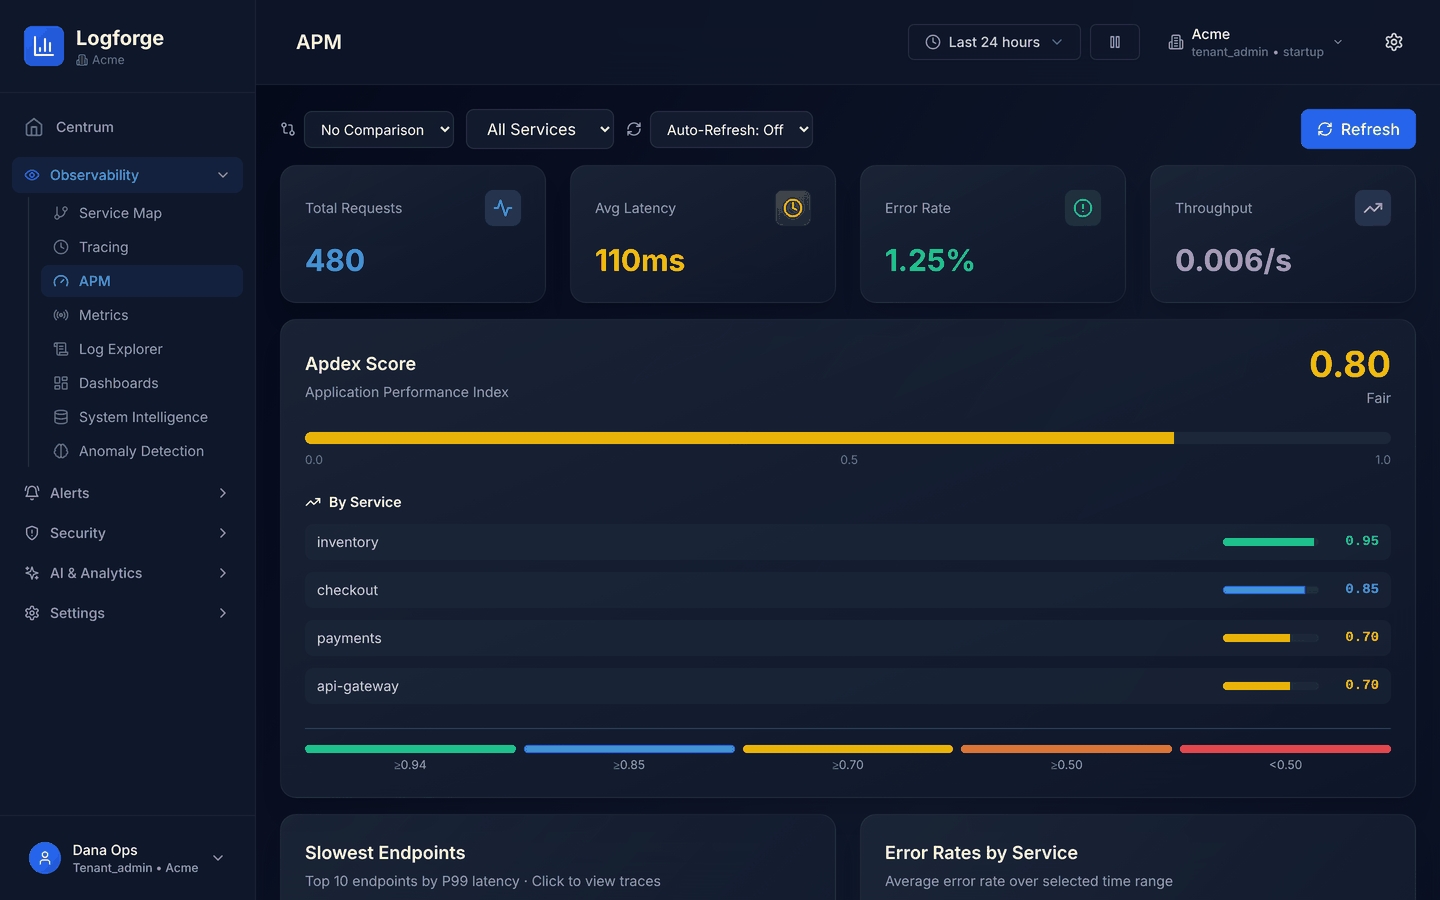
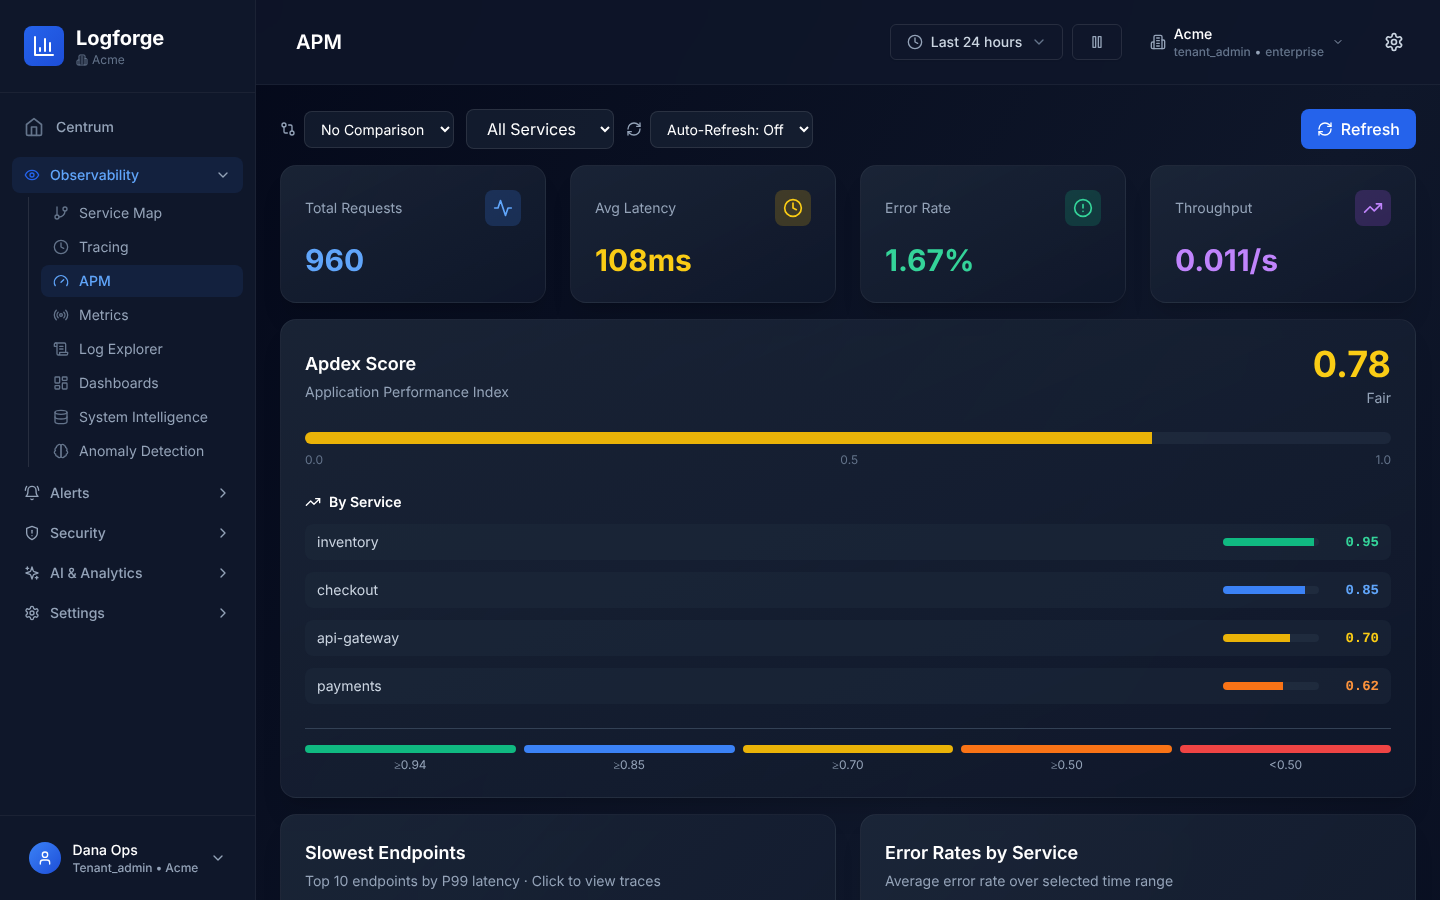
README: current screenshots, Phase 1-2 features, cases guide
The README screenshots were from before Phase 0. All seven are recaptured
from the current build against a local stack, and two are new: the Cases
list and a case being worked. The data is real: the demo tenant is seeded by
the new scripts/seed_demo_telemetry.py (an hour of logs, traces and metrics,
plus three attacks the shipped rules detect, one case worked by an
analyst), and scripts/capture_screenshots.js takes the pictures, failing
on page errors, so later phases can refresh them the same way.

The feature table gains correlation rules, backtesting, tuning,
detection-as-code and cases; the rule count and the stale "packages/rules
is used by tests only" note are corrected. docs/cases.md documents
grouping, the workflow, SLA targets, audit export and the API.

Claude-Session: https://claude.ai/code/session_017j6Y7u5fbgghW6rbktQFja

diff --git a/scripts/capture_screenshots.js b/scripts/capture_screenshots.js
@@ -1,0 +1,70 @@
+#!/usr/bin/env node
+/**
+ * Capture the README screenshots (docs/images/*.png) from a running UI.
+ *
+ *   python scripts/bootstrap_demo.py
+ *   python scripts/seed_demo_telemetry.py
+ *   node scripts/capture_screenshots.js            # UI at http://localhost:3001
+ *   UI_URL=http://localhost:3000 node scripts/capture_screenshots.js
+ *
+ * Needs Playwright (`npm ci` in apps/ui). Logs in as the demo user, opens each
+ * page, waits for its data, and writes 1440x900 PNGs. A page that shows an
+ * error or no data is reported, so a broken page never becomes a screenshot.
+ */
+const path = require('path')
+const { chromium } = require(require.resolve('playwright', { paths: [path.join(__dirname, '..', 'apps', 'ui')] }))
+
+const UI = process.env.UI_URL || 'http://localhost:3001'
+const OUT = path.join(__dirname, '..', 'docs', 'images')
+const EMAIL = process.env.E2E_EMAIL || 'dana@acme.example'
+const PASSWORD = process.env.E2E_PASSWORD || 'Acme-Demo-Pass-123!'
+
+// name -> page and an element that proves its data loaded
+const PAGES = [
+  ['centrum', '/centrum', 'main'],
+  ['log-explorer', '/observability/logs', 'table, [data-testid="logs-refresh"]'],
+  ['tracing', '/observability/traces', 'main'],
+  ['apm', '/observability/apm', 'main'],
+  ['service-map', '/observability/service-map', 'main'],
+  ['detection-rules', '/security/rules', 'main'],
+  ['cases', '/security/cases', '[data-testid="case-row"]'],
+]
+
+async function main() {
+  const browser = await chromium.launch({ executablePath: process.env.CHROMIUM_PATH || undefined })
+  const page = await browser.newPage({ viewport: { width: 1440, height: 900 } })
+  const errors = []
+  page.on('pageerror', e => errors.push(e.message))
+
+  await page.goto(`${UI}/login`, { waitUntil: 'load' })
+  await page.screenshot({ path: path.join(OUT, 'login.png') })
+  await page.fill('[data-testid="email-input"]', EMAIL)
+  await page.fill('[data-testid="password-input"]', PASSWORD)
+  await page.locator('[data-testid="login-button"]:not([disabled])').click()
+  await page.waitForURL(url => !url.pathname.startsWith('/login'), { timeout: 30000 })
+
+  for (const [name, route, ready] of PAGES) {
+    await page.goto(`${UI}${route}`, { waitUntil: 'load' })
+    await page.locator(ready).first().waitFor({ timeout: 20000 })
+    await page.waitForTimeout(3000) // data loads, charts animate in (pages poll, so no networkidle)
+    await page.screenshot({ path: path.join(OUT, `${name}.png`) })
+    console.log(`${name}.png`)
+  }
+
+  // The case an analyst is working (seeded by seed_demo_telemetry.py).
+  await page.goto(`${UI}/security/cases`, { waitUntil: 'load' })
+  const worked = page.getByTestId('case-row').filter({ hasText: 'investigating' }).first()
+  await worked.getByRole('link').click()
+  await page.getByTestId('timeline-item').first().waitFor()
+  await page.waitForTimeout(2000)
+  await page.screenshot({ path: path.join(OUT, 'case-detail.png') })
+  console.log('case-detail.png')
+
+  await browser.close()
+  if (errors.length) {
+    console.error('page errors:', errors)
+    process.exit(1)
+  }
+}
+
+main().catch(e => { console.error(e); process.exit(1) })

diff --git a/scripts/seed_demo_telemetry.py b/scripts/seed_demo_telemetry.py
@@ -1,0 +1,161 @@
+#!/usr/bin/env python3
+"""
+Seed the demo tenant with an hour of realistic telemetry and a few attacks,
+for screenshots and demos (see scripts/capture_screenshots.js).
+
+* about 1,800 logs across 5 services, 120 traces (480 spans), 240 metric
+  points;
+* three small intrusions that the shipped rules detect (brute force then a
+  successful login, a password spray, discovery then an LSASS dump), so
+  case grouping opens cases on its own;
+* one of those cases worked by an analyst: assigned, a note, pinned
+  evidence, moved to investigating.
+
+Run after scripts/bootstrap_demo.py, against a running stack:
+
+    python scripts/seed_demo_telemetry.py
+"""
+
+from __future__ import annotations
+
+import random
+import sys
+import time
+import uuid
+from datetime import datetime, timedelta, timezone
+from pathlib import Path
+
+sys.path.insert(0, str(Path(__file__).resolve().parent))
+import bootstrap_demo as demo  # noqa: E402
+
+random.seed(7)
+NOW = datetime.now(timezone.utc)
+ANALYST = "dana@acme.example"
+
+SERVICES = {
+    "checkout": ["order placed", "payment authorized", "payment declined", "cart validated"],
+    "auth": ["user login succeeded", "token refreshed", "session expired", "password changed"],
+    "inventory": ["stock reserved", "stock level low", "warehouse sync complete"],
+    "api-gateway": ["GET /v1/orders 200", "POST /v1/cart 201", "GET /v1/products 200", "upstream timeout"],
+    "payments": ["charge created", "refund issued", "card network error"],
+}
+LEVELS = ["info"] * 14 + ["warn"] * 3 + ["error"] * 2 + ["debug"]
+HOSTS = ["web-01", "web-02", "worker-01", "worker-02"]
+
+
+def call(method, path, body=None):
+    status, data = demo.call(method, path, body, token=TOKEN, tenant=TENANT)
+    if status >= 400:
+        raise SystemExit(f"{method} {path} failed: {status} {data}")
+    return data
+
+
+def at(seconds_ago: float) -> str:
+    return (NOW - timedelta(seconds=seconds_ago)).isoformat()
+
+
+def seed_logs():
+    logs = []
+    for _ in range(1800):
+        service = random.choice(list(SERVICES))
+        message = random.choice(SERVICES[service])
+        level = "error" if any(w in message for w in ("declined", "error", "timeout")) else random.choice(LEVELS)
+        logs.append({"service": service, "level": level, "msg": message, "host": random.choice(HOSTS),
+                     "ts": at(random.randint(0, 3500)), "trace_id": uuid.uuid4().hex,
+                     "src_ip": f"10.0.{random.randint(0, 3)}.{random.randint(2, 250)}",
+                     "attrs": {"region": random.choice(["us-east-1", "eu-west-1"]),
+                               "latency_ms": random.randint(5, 900)}})
+    for i in range(0, len(logs), 200):
+        call("POST", "/v1/ingest/logs/batch", {"logs": logs[i:i + 200]})
+    print(f"logs: {len(logs)}")
+
+
+def seed_traces():
+    spans = []
+    chain = [("api-gateway", "HTTP POST /checkout"), ("checkout", "place_order"),
+             ("inventory", "reserve_stock"), ("payments", "charge_card")]
+    for _ in range(120):
+        trace_id, parent = uuid.uuid4().hex, None
+        start = NOW - timedelta(seconds=random.randint(0, 3500))
+        for depth, (service, operation) in enumerate(chain):
+            span_id = uuid.uuid4().hex[:16]
+            failed = service == "payments" and random.random() < 0.08
+            spans.append({"trace_id": trace_id, "span_id": span_id, "parent_span_id": parent,
+                          "operation_name": operation, "service_name": service,
+                          "start_time": (start + timedelta(milliseconds=depth * 5)).isoformat(),
+                          "duration_ms": random.randint(20, 400) // (depth + 1),
+                          "status": "error" if failed else "ok", "kind": "server",
+                          "attributes": {"http.method": "POST"} if depth == 0 else {}})
+            parent = span_id
+    for i in range(0, len(spans), 200):
+        call("POST", "/v1/observability/traces/ingest", {"spans": spans[i:i + 200]})
+    print(f"spans: {len(spans)}")
+
+
+def seed_metrics():
+    metrics = []
+    for minute in range(60):
+        ts = (NOW - timedelta(minutes=60 - minute)).isoformat()
+        for name, base in [("cpu.utilization", 45), ("memory.used_pct", 62),
+                           ("http.requests_per_sec", 320), ("http.p95_latency_ms", 180)]:
+            metrics.append({"metric_name": name, "metric_type": "gauge", "timestamp": ts,
+                            "value": round(base * random.uniform(0.75, 1.3), 2)})
+    call("POST", "/v1/observability/metrics/ingest", {"metrics": metrics})
+    print(f"metrics: {len(metrics)}")
+
+
+def seed_attacks() -> str:
+    """Three intrusions the shipped rules detect; returns the brute-force source."""
+    brute = f"203.0.113.{random.randint(10, 250)}"
+    spray = f"45.155.205.{random.randint(10, 250)}"
+
+    def auth(ip, user, result, seconds_ago):
+        return {"ts": at(seconds_ago), "service": "sshd", "host": "bastion-01", "msg": f"authentication {result}",
+                "src_ip": ip, "attrs": {"event_type": "authentication", "result": result, "user": user}}
+
+    batches = [
+        [auth(brute, "deploy", "failed", 900 - i * 5) for i in range(12)] + [auth(brute, "deploy", "success", 780)],
+        [auth(spray, user, "failed", 600 - i * 3) for i, user in enumerate(
+            ["alice", "bob", "carol", "dave", "erin", "frank"])],
+        [{"ts": at(400), "service": "sysmon", "host": "WS-044", "msg": "Process created",
+          "attrs": {"user": "carol", "process_name": r"C:\Windows\System32\whoami.exe", "command_line": "whoami /priv"}},
+         {"ts": at(300), "service": "sysmon", "host": "WS-044", "msg": "Process created",
+          "attrs": {"user": "carol", "process_name": r"C:\Users\Public\procdump64.exe",
+                    "command_line": r"procdump64.exe -accepteula -ma lsass.exe C:\Users\Public\l.dmp"}}],
+    ]
+    for batch in batches:
+        call("POST", "/v1/ingest/logs/batch", {"logs": batch})
+        time.sleep(2)
+    print(f"attacks: brute force from {brute}, spray from {spray}, LSASS dump on WS-044")
+    return brute
+
+
+def work_a_case(source_ip: str):
+    """An analyst picks up the brute-force case."""
+    for _ in range(45):  # detection and grouping run asynchronously
+        found = call("GET", f"/v1/security/cases?q={source_ip}")
+        if found.get("total"):
+            break
+        time.sleep(2)
+    else:
+        print("no case opened for the brute force (is detection running?)")
+        return
+    case_id = found["cases"][0]["id"]
+    call("POST", f"/v1/security/cases/{case_id}/assign", {"assignee": ANALYST})
+    call("POST", f"/v1/security/cases/{case_id}/status", {"status": "investigating"})
+    call("POST", f"/v1/security/cases/{case_id}/comments", {
+        "text": f"12 failed logins for `deploy` from {source_ip}, then a success. Checking what the session did; "
+                "@soc-lead the bastion key for deploy may need rotating."})
+    call("POST", f"/v1/security/cases/{case_id}/evidence", {
+        "kind": "search", "ref": source_ip, "title": "Everything from the source address"})
+    call("POST", f"/v1/security/cases/{case_id}/tags", {"add": ["bastion", "credential-access"]})
+    print(f"case worked: {case_id}")
+
+
+if __name__ == "__main__":
+    TOKEN = demo.admin_token()
+    TENANT = demo.tenant_id(TOKEN)
+    seed_logs()
+    seed_traces()
+    seed_metrics()
+    work_a_case(seed_attacks())

diff --git a/README.md b/README.md
@@ -18,13 +18,14 @@ rules (with MITRE ATT&CK tags) over incoming logs to produce security events.
 
 ## Screenshots
 
-<sub>Captured from a fresh `./deploy.sh` during the [QA run](./docs/QA_REPORT.md), with a tenant seeded with an hour of synthetic logs, traces and metrics.</sub>
+<sub>Captured from the current build on a local stack, with the demo tenant seeded by `scripts/seed_demo_telemetry.py` (an hour of synthetic logs, traces and metrics, plus three small attacks that the shipped rules detect). Regenerate with `node scripts/capture_screenshots.js`.</sub>
 
 | | |
 | --- | --- |
 | **Centrum** (tenant overview)<br>![Centrum](./docs/images/centrum.png) | **Log Explorer**<br>![Log Explorer](./docs/images/log-explorer.png) |
 | **Tracing**<br>![Tracing](./docs/images/tracing.png) | **APM** (latency, error rate, Apdex)<br>![APM](./docs/images/apm.png) |
-| **Service Map** (built from trace spans)<br>![Service Map](./docs/images/service-map.png) | **Sigma Detection Rules** (243 vendored SigmaHQ rules)<br>![Detection Rules](./docs/images/detection-rules.png) |
+| **Service Map** (built from trace spans)<br>![Service Map](./docs/images/service-map.png) | **Detection Rules** (vendored SigmaHQ plus Logforge rules, correlation rules included)<br>![Detection Rules](./docs/images/detection-rules.png) |
+| **Cases** (alerts grouped per source, host or user; SLA overview)<br>![Cases](./docs/images/cases.png) | **Case detail** (timeline, linked alerts, entities, evidence)<br>![Case detail](./docs/images/case-detail.png) |
 
 ## Contents
 
@@ -54,7 +55,12 @@ rules (with MITRE ATT&CK tags) over incoming logs to produce security events.
 | **LogforgeQL**, a pipe language (`timeout \| where service = "api" \| limit 50`) | ✅ Implemented | `apps/api/logql.py` |
 | Alerting: threshold, pattern, anomaly and saved-search rules | ✅ Implemented | `apps/api/alert_engine.py` |
 | Notifications: webhook, Slack, email, PagerDuty, Teams, Discord | ✅ Implemented (off by default) | `apps/api/services/notification_service.py` |
-| Sigma detection engine: ~270 fixture-verified rules (vendored SigmaHQ + Logforge's own `packages/rules/`) | ✅ Implemented | `apps/api/sigma_engine.py`, `apps/api/content/rules/`, `packages/rules/` |
+| Sigma detection engine: ~300 fixture-verified rules (vendored SigmaHQ + Logforge's own `packages/rules/`) | ✅ Implemented | `apps/api/sigma_engine.py`, `apps/api/content/rules/`, `packages/rules/` |
+| Correlation rules: thresholds, distinct counts, sums and sequences per entity, windowed across batches | ✅ Implemented | `apps/api/correlation.py`, `packages/rules/correlations/` |
+| Rule backtesting over stored logs (7 days / 100 M events in 20–27 s) | ✅ Implemented | `apps/api/backtest.py`, [benchmarks](./docs/benchmarks/backtest.md) |
+| Detection tuning: exclusions, throttles, suggestions from false positives | ✅ Implemented | `apps/api/detection_tuning.py` |
+| Detection-as-code: sync rules from git through the gate, YAML export | ✅ Implemented | `apps/api/detection_as_code.py`, [guide](./docs/detection-as-code.md) |
+| Cases: automatic grouping of alerts, timeline, evidence, merge/split, SLA metrics, audit export | ✅ Implemented | `apps/api/cases.py`, `apps/api/routers/cases_api.py`, [guide](./docs/cases.md) |
 | Anomaly detection and forecasting (z-score / EWMA) | ✅ Implemented | `apps/api/services/anomaly_detector.py`, `predictive_analytics_service.py` |
 | Multi-tenancy, roles, API keys, quotas, subscription tiers | ✅ Implemented | `tenant_api.py`, `authn_authz_middleware.py`, `config/pricing.yml` |
 | Server-sent event streams (metrics, alerts, security, …) | ✅ Implemented | `apps/api/routers/streaming_api.py` |
@@ -277,7 +283,7 @@ apps/
   ui/                 Tenant web UI (Next.js 14)
   admin-ui/           Platform admin UI (Next.js 14)
 packages/
-  rules/              Hand-written Sigma rules and content pack (currently used by tests only)
+  rules/              Logforge's own Sigma rules, correlation bundles and content pack (loaded at startup)
   shipper-recipes/    Vector and Fluent Bit configs
 infra/docker/         compose.yml, ClickHouse schema (init_simple.sql) and migrations
 config/               Storage deployment profiles (S3, GCS, MinIO, GovCloud)

diff --git a/docs/cases.md b/docs/cases.md
@@ -1,0 +1,91 @@
+# Cases
+
+A case is an investigation: the alerts about one attacker or one machine,
+the analyst working them, what they found, and how it ended. Cases live
+under **Security → Cases** in the UI and `/v1/security/cases` in the API,
+with the same permissions as the rest of the security API.
+
+![Case detail](images/case-detail.png)
+
+## Alerts open cases on their own
+
+Every detection is routed into a case as it is stored:
+
+* it joins the **open case for the same entity** that had an alert in the
+  last 24 hours, or opens a new one;
+* the entity is the **source IP**, else the **host**, else the **user**,
+  taken from the correlation group when the alert comes from a
+  correlation rule, otherwise from the event;
+* a **low**-severity alert joins an existing case but doesn't open one.
+
+On the evaluation corpus (24 attack scenarios replayed together), grouping
+turns 64 alerts into 14 cases, **78% fewer items to triage** and 4.6 alerts
+per case. Every scenario lands in one case except lateral movement, which
+spans two hosts (entity grouping doesn't link a source host to a
+destination host).
+
+| Setting | Default | |
+|---|---|---|
+| `CASE_GROUPING` | `on` | `off` disables automatic cases |
+| `CASE_GROUPING_WINDOW_HOURS` | `24` | how recent the open case's last alert must be |
+| `CASE_AUTO_MIN_SEVERITY` | `medium` | alerts below this don't open cases |
+
+## Workflow
+
+```
+new → investigating → contained → resolved | false positive
+          ↑___________________________________|  (reopen)
+```
+
+* **Closing needs a reason.** It is set on the case's alerts as their
+  verdict: closing as *false positive* marks them false positive, which is
+  what the [tuning suggestion](detection-as-code.md#related) learns from;
+  *resolved* resolves them.
+* **Acknowledged** is the first move out of *new* or the first assignment.
+* Analysts can **assign**, add **notes** (`@name` mentions are recorded on the
+  note; they are not delivered as notifications yet), **tag**, change
+  **severity**, **pin evidence** (a log search, an event, a trace, a log
+  line, a link), **attach alerts**, **merge** cases (the others close as
+  merged) and **split** alerts into a new case. The case list has bulk
+  assign and status.
+* A case can be opened by hand from an alert (**Events → Create case from
+  this alert**) or from a search (**Log Explorer → Create case**, which pins
+  the search as evidence).
+
+## Timeline and audit
+
+Every change is an event on the case's timeline: who, what, when. The
+timeline is append-only and doubles as the audit trail:
+
+```
+GET /v1/security/cases/audit/export?start=2026-11-01T00:00:00Z&end=2026-12-01T00:00:00Z&format=csv
+```
+
+## SLA and SOC overview
+
+`GET /v1/security/cases/metrics?days=30` (the strip at the top of the Cases
+page) reports, per severity, mean and median time to acknowledge and to
+resolve, SLA breaches, open cases by status and age, open cases per
+analyst, and alerts per case. Targets:
+
+| Severity | Acknowledge | Resolve |
+|---|---|---|
+| critical | 15 min | 4 h |
+| high | 1 h | 24 h |
+| medium | 4 h | 3 days |
+| low | 24 h | 7 days |
+
+## API
+
+| | |
+|---|---|
+| `GET /v1/security/cases` | list: `status` (repeatable), `assignee`, `severity`, `q`, `limit`, `offset` |
+| `POST /v1/security/cases` | create: `title`, `severity`, `alert_ids`, `evidence`, `tags`, `assignee` |
+| `GET /v1/security/cases/{id}` | case, alerts and timeline |
+| `PATCH /v1/security/cases/{id}` | title, description, severity |
+| `POST /v1/security/cases/{id}/assign` · `/comments` · `/status` · `/tags` · `/evidence` · `/alerts` · `/merge` · `/split` | analyst actions |
+| `POST /v1/security/cases/bulk` | assign, status or tags for many cases |
+| `GET /v1/security/cases/metrics` | SLA and overview |
+| `GET /v1/security/cases/audit/export` | audit trail, JSON or CSV |
+
+Full schemas are in the [API reference](https://miteshpant.github.io/Logforge/api/).
